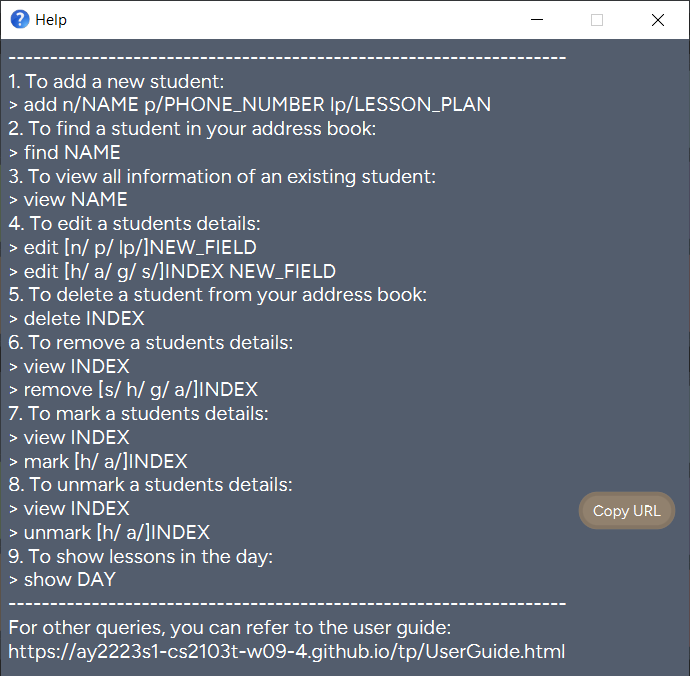
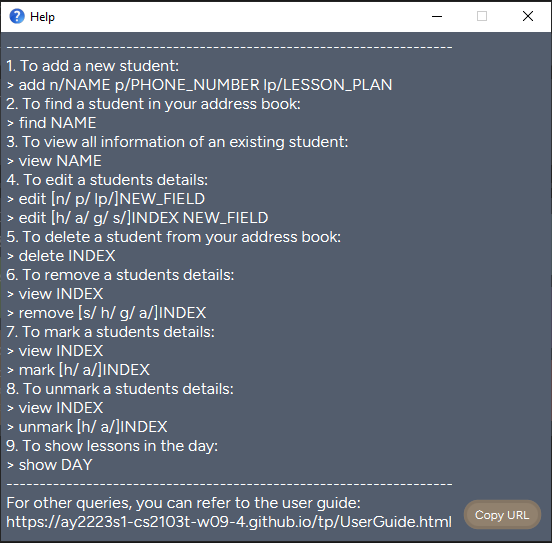
update help window remove command gives error for empty fields

diff --git a/src/main/java/seedu/address/logic/commands/RemoveCommand.java b/src/main/java/seedu/address/logic/commands/RemoveCommand.java
@@ -15,6 +15,7 @@ import java.util.Set;
 
 import seedu.address.commons.core.Messages;
 import seedu.address.commons.core.index.Index;
+import seedu.address.commons.util.CollectionUtil;
 import seedu.address.logic.commands.exceptions.CommandException;
 import seedu.address.model.Model;
 import seedu.address.model.person.Attendance;
@@ -49,6 +50,7 @@ public class RemoveCommand extends Command {
             + "Example: " + COMMAND_WORD + " " + PREFIX_HOMEWORK + " 1 ";
 
     public static final String MESSAGE_REMOVED_PERSON_SUCCESS = "Removed Person Detail: %1$s";
+    public static final String MESSAGE_NOT_REMOVED = "At least one field to remove must be provided.";
     public static final String MESSAGE_NOT_VIEW_MODE =
             "You need to be in full view mode to remove a person's details.";
 
@@ -157,6 +159,23 @@ public class RemoveCommand extends Command {
         return updatedGradeProgressList;
     }
 
+    @Override
+    public boolean equals(Object other) {
+        // short circuit if same object
+        if (other == this) {
+            return true;
+        }
+
+        // instanceof handles nulls
+        if (!(other instanceof RemoveCommand)) {
+            return false;
+        }
+
+        // state check
+        RemoveCommand r = (RemoveCommand) other;
+        return removePersonDescriptor.equals(r.removePersonDescriptor);
+    }
+
     /**
      * Stores the details to edit the person with.
      */
@@ -193,6 +212,14 @@ public class RemoveCommand extends Command {
             setSessionIndex(toCopy.sessionIndex);
             setSession(toCopy.session);
             setTags(toCopy.tags);
+        }
+
+        /**
+         * Returns true if at least one field is removed.
+         */
+        public boolean isAnyFieldRemoved() {
+            return CollectionUtil.isAnyNonNull(homeworkIndex, gradeProgressIndex,
+                    attendanceIndex, sessionIndex);
         }
 
         public void setName(Name name) {
@@ -293,6 +320,27 @@ public class RemoveCommand extends Command {
 
         public Optional<Set<Tag>> getTags() {
             return (tags != null) ? Optional.of(Collections.unmodifiableSet(tags)) : Optional.empty();
+        }
+
+        @Override
+        public boolean equals(Object other) {
+            // short circuit if same object
+            if (other == this) {
+                return true;
+            }
+
+            // instanceof handles nulls
+            if (!(other instanceof RemovePersonDescriptor)) {
+                return false;
+            }
+
+            // state check
+            RemovePersonDescriptor r = (RemovePersonDescriptor) other;
+
+            return getName().equals(r.getName())
+                    && getPhone().equals(r.getPhone())
+                    && getLessonPlan().equals(r.getLessonPlan())
+                    && getTags().equals(r.getTags());
         }
     }
 }

diff --git a/src/main/java/seedu/address/ui/HelpWindow.java b/src/main/java/seedu/address/ui/HelpWindow.java
@@ -17,6 +17,7 @@ public class HelpWindow extends UiPart<Stage> {
 
     public static final String USERGUIDE_URL = "https://ay2223s1-cs2103t-w09-4.github.io/tp/UserGuide.html";
     public static final String BUFFER_LINE = "-------------------------------------------------------------------\n";
+    //move copyButton in HelpWindow FXML if changed
     public static final String BASIC_COMMANDS = "1. To add a new student:\n"
             + "> add n/NAME p/PHONE_NUMBER lp/LESSON_PLAN\n"
             + "2. To find a student in your address book:\n" + "> find NAME\n"

diff --git a/src/main/java/seedu/address/logic/parser/RemoveCommandParser.java b/src/main/java/seedu/address/logic/parser/RemoveCommandParser.java
@@ -51,6 +51,10 @@ public class RemoveCommandParser implements Parser<RemoveCommand> {
             removePersonDescriptor.setSessionIndex(sessionIndex);
         }
 
+        if (!removePersonDescriptor.isAnyFieldRemoved()) {
+            throw new ParseException(RemoveCommand.MESSAGE_NOT_REMOVED);
+        }
+
         return new RemoveCommand(removePersonDescriptor);
     }
 }
